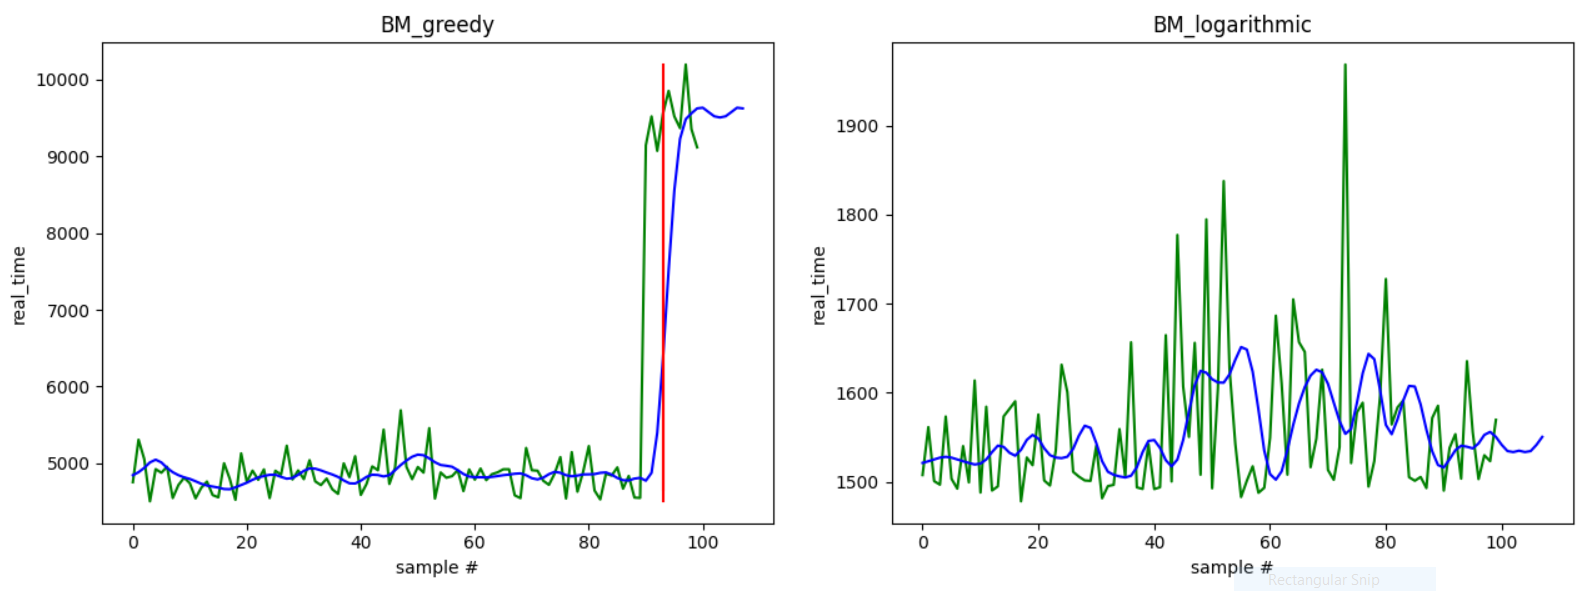
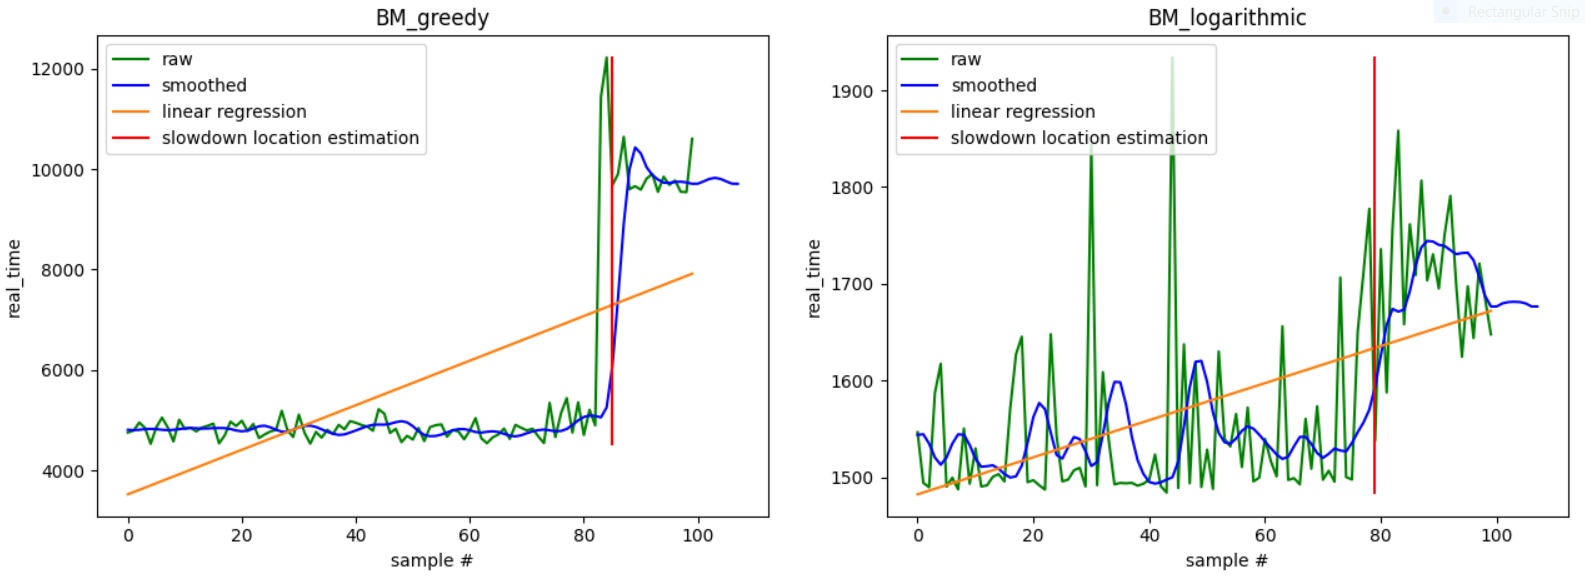
Added linear regression to plot (#4)

diff --git a/benchmark_monitor.py b/benchmark_monitor.py
@@ -78,11 +78,8 @@ def estimateStepLocation(values):
     peaks, troughs = turningpoints(dary_step)
     if(len(peaks)) == 0:
         return 0;
-    
-    # plot slowdown location indicator
-    step_max_idx  = peaks[-1]
-    plt.plot((step_max_idx, step_max_idx), (np.min(values), np.max(values)), 'r')
-    
+
+    step_max_idx = peaks[-1]
     return step_max_idx
     
 def hasSlowedDown(benchmark, raw_values, smoothedvalues, slidingwindow, alphavalue, metric):
@@ -90,11 +87,20 @@ def hasSlowedDown(benchmark, raw_values, smoothedvalues, slidingwindow, alphaval
     sample_a_len = sample_count - slidingwindow
     sample_b_len = slidingwindow
     
-    # add raw and smoothed values to plot
-    plt.plot(raw_values, 'g')
-    plt.plot(smoothedvalues, 'b')
+    # plot raw and smoothed values
+    plt.plot(raw_values, '-g', label="raw")
+    plt.plot(smoothedvalues, '-b', label="smoothed")
     plt.ylabel(metric)
     plt.xlabel('sample #')
+    
+    # plot line fit
+    x_vals  = np.arange(0, len(raw_values), 1)
+    y_vals  = raw_values
+    model   = np.polyfit(x_vals, y_vals, 1)
+    predict = np.poly1d(model)
+    lrx     = range(0, len(x_vals))
+    lry     = predict(lrx)
+    plt.plot(lrx, lry, 'tab:orange', label="linear regression")
 
     # mw test
     sample_a = smoothedvalues[:sample_a_len]
@@ -201,13 +207,14 @@ def main():
                     print('\tBENCHMARK ' + benchmark + ' STEP CHANGE IN PERFORMANCE ENCOUNTERED (SLOWDOWN) - likely occurred somewhere between this build and this build minus ' + str(sample_count - step_max_idx) + ']')
                     
                     # plot step location
-                    plt.plot((step_max_idx, step_max_idx), (np.min(raw_values), np.max(raw_values)), 'r')
+                    plt.plot((step_max_idx, step_max_idx), (np.min(raw_values), np.max(raw_values)), 'r', label="slowdown location estimation")
                 else:
                     print('\tBENCHMARK ' + benchmark + ' STEP CHANGE IN PERFORMANCE ENCOUNTERED (SPEEDUP) - ignoring')
             else:
                 print('\tBENCHMARK ' + benchmark + ' step index is 0 - likely speedup, ignoring')
-                
+
         plt.title('\n'.join(wrap(benchmark, 50)))
+        plt.legend(loc="upper left")
         figurePath = os.path.join(args.outputdirectory, benchmark+".png")
         ensureDir(figurePath)
         plt.tight_layout()
